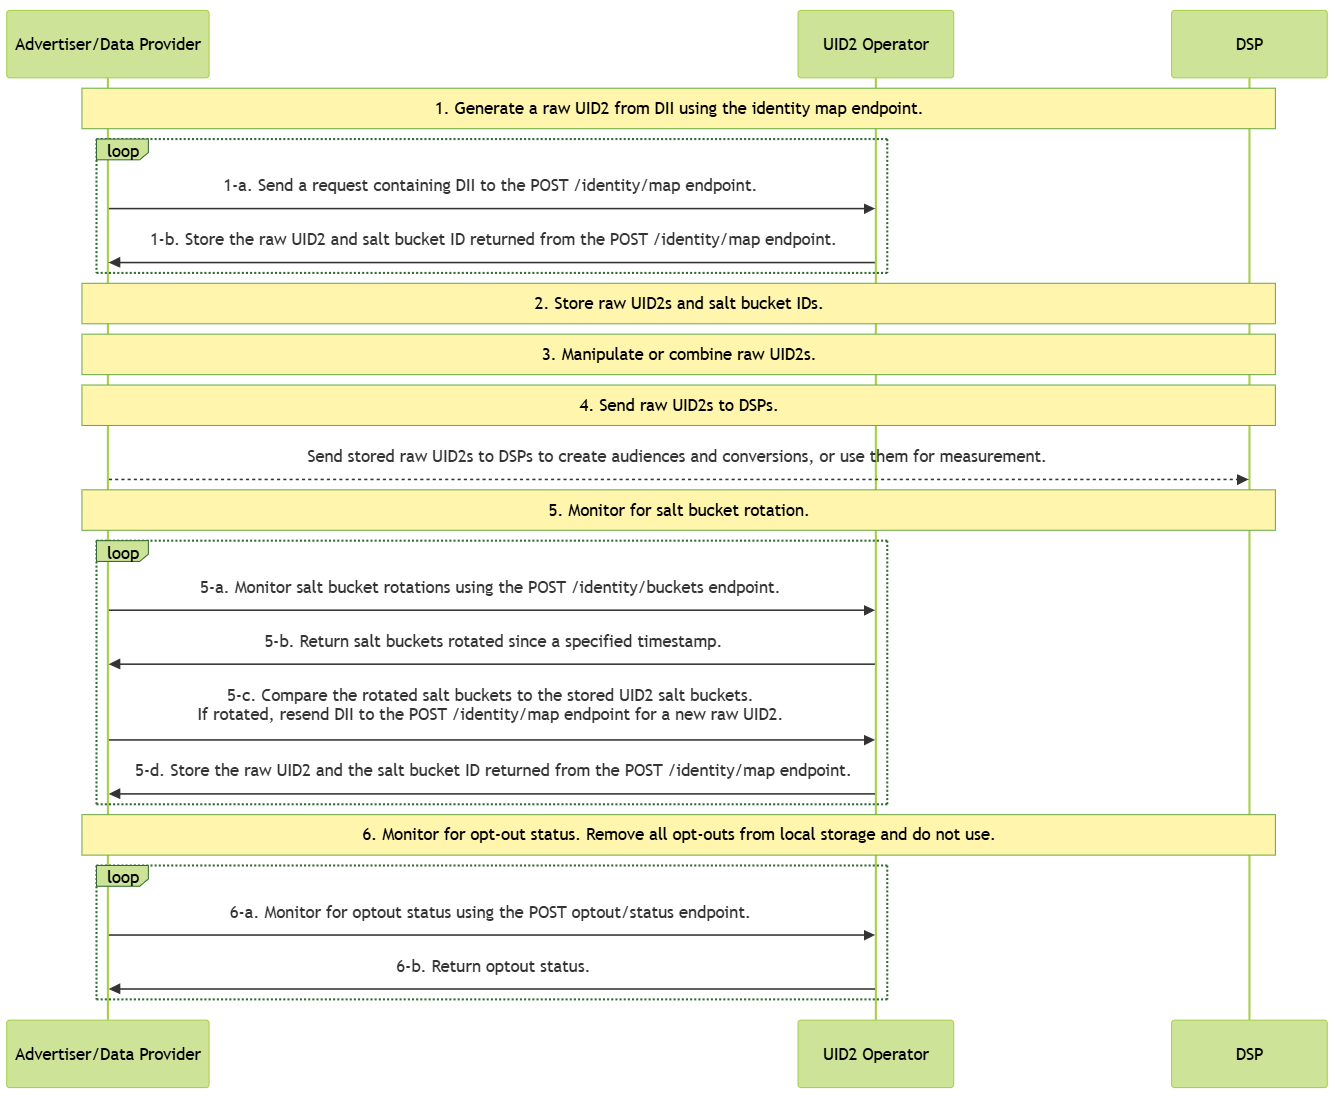
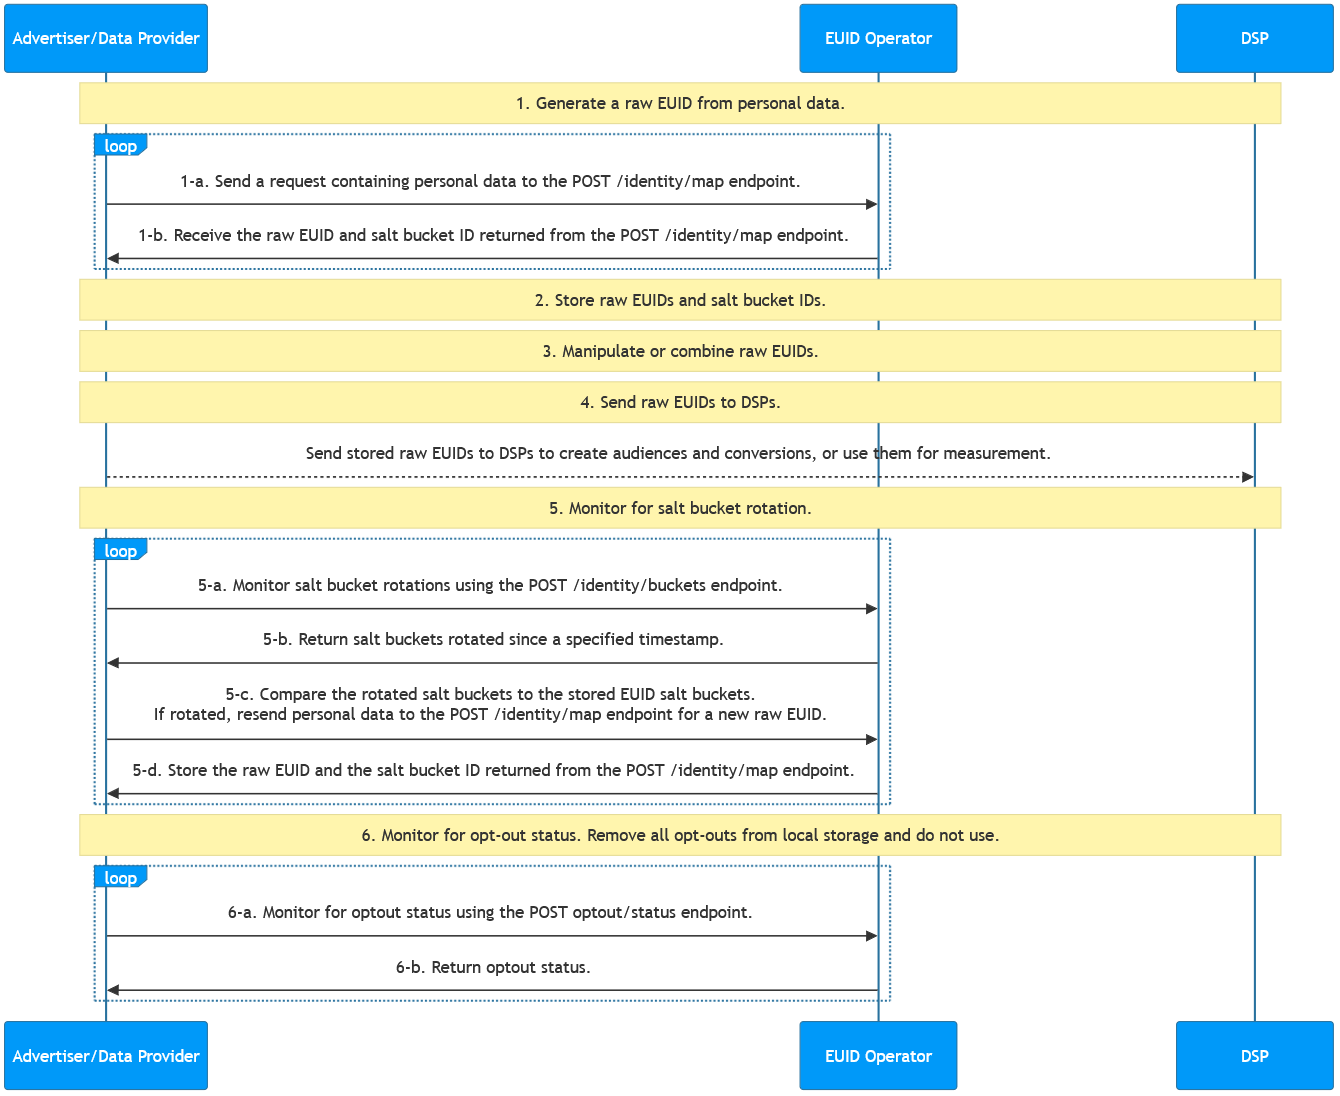
ADP diagram updates for EUID

Changed region(s): [[0.0, 0.0, 1.0, 1.0], [0.1228, 0.5274, 0.5835, 0.5894], [0.8599, 0.8996, 1.0, 1.0]]

diff --git a/api/v2/guides/advertiser-dataprovider-guide.md b/api/v2/guides/advertiser-dataprovider-guide.md
@@ -1,1 +1,1 @@
-This page has been moved. The new location is on the EUID website: [Advertiser/Data Provider Integration Guide](https://euid.eu/docs/guides/advertiser-dataprovider-guide).
+This page has been moved. The new location is on the EUID website: [Advertiser/Data Provider Integration Guide](https://euid.eu/docs/guides/integration-advertiser-dataprovider-overview).
